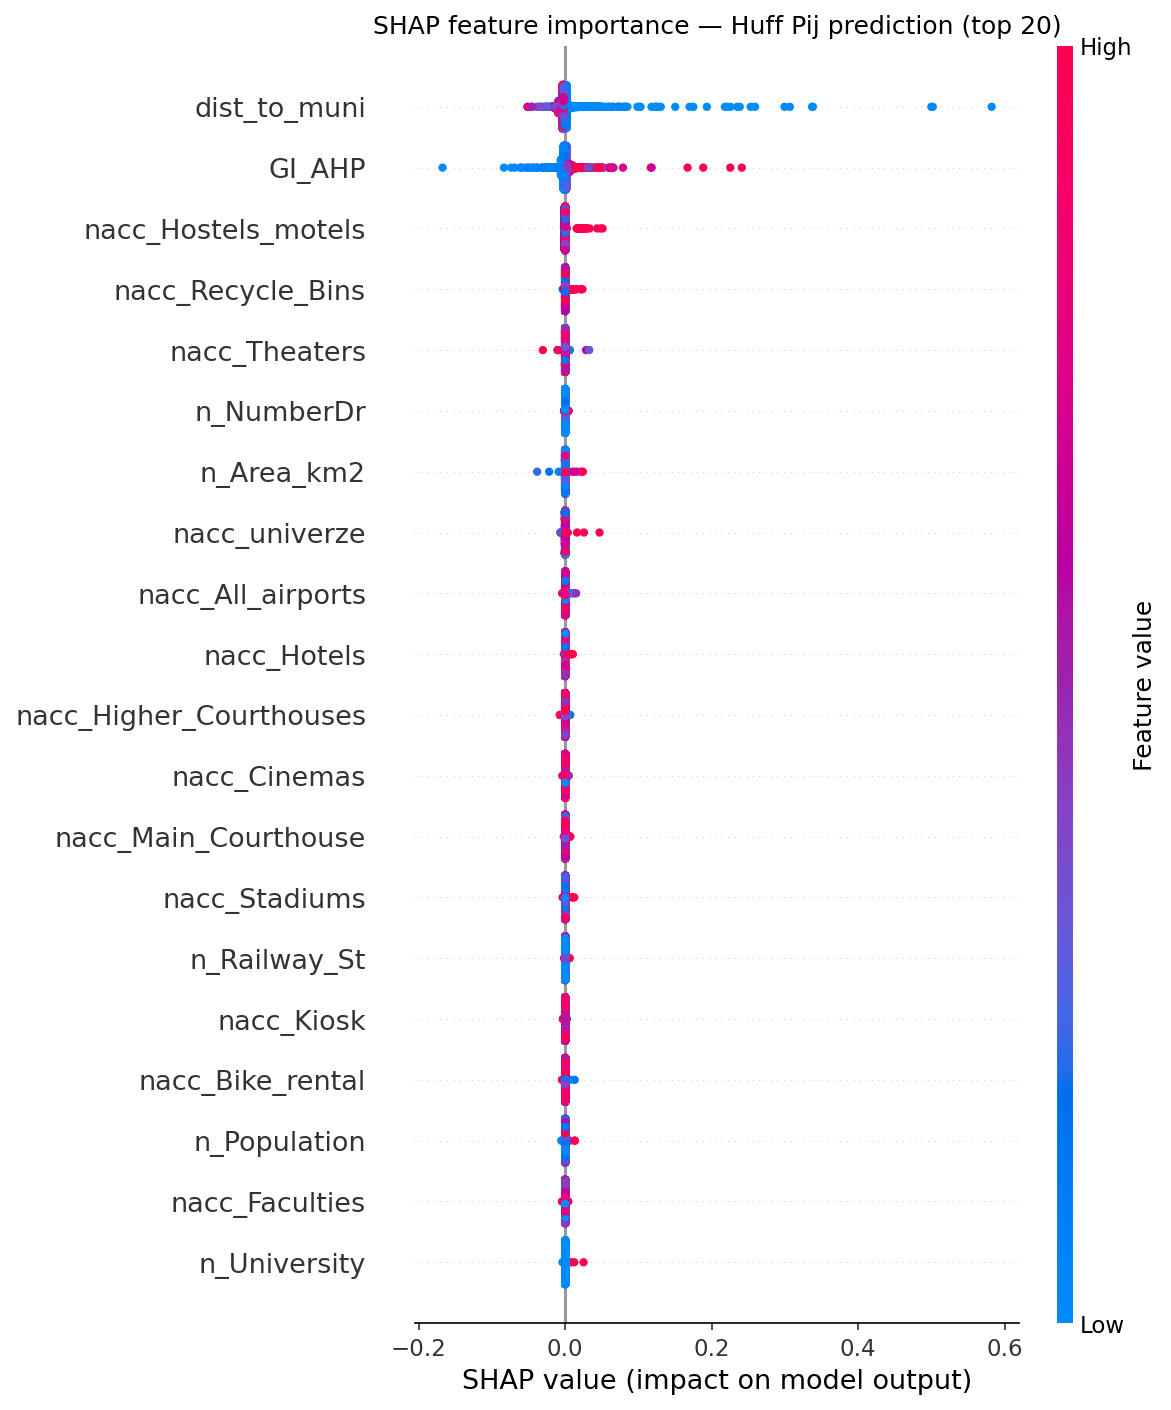
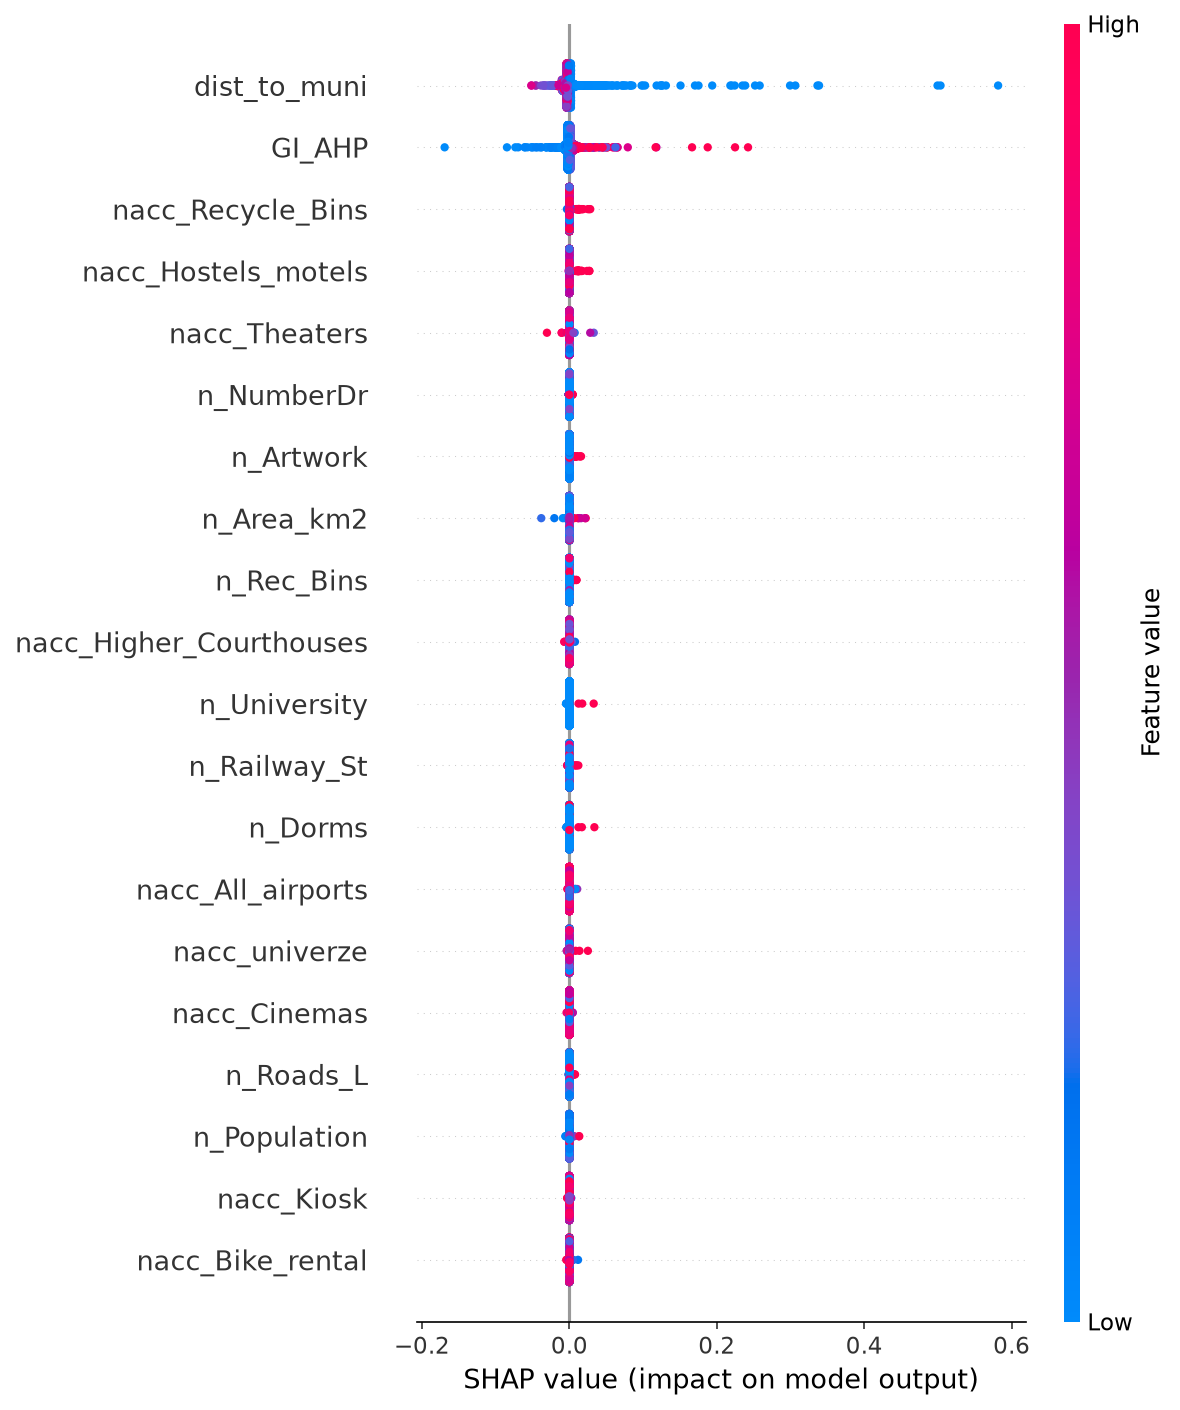
Stage 3: RF-AHP vs RF-NW comparison, corrected Moran's I/LISA, SHAP figures resolved
- Add the fourth comparison the original three never covered: RF(AHP-target) vs
  RF(NW-target) at settlement level. map_ML_AHP_vs_ML_NW_villages.gpkg (same field
  structure as the other three), a row in table_three_way_agreement.csv (80.78%
  agreement, kappa=0.8047, Moran's I=0.3376 — the two independently trained RF
  models agree with each other MORE than either agrees with its own Huff target),
  and a row in table_disagreement_destinations.csv. 10_morans_i.py and
  14_disagreement_synthesis.py extended to all four comparisons; n_disagree now
  runs 0-4, not 0-3 (the entropy-by-disagreement crosstab is table_disagreement_
  synthesis.csv's existing per-bucket entropy stats, now covering all 5 buckets).

- outputs/audit/ml_model_design_note.md: two RF models, one per Huff target,
  same architecture, why n_disagree compares against more than one model.

- Corrected a real bug this stage's own reproducibility check surfaced: the
  original Stage 2B run of 10_morans_i.py executed before 12_export_outputs.py
  in that session's script order, so it read AHP-vs-ML/NW-vs-ML comparison maps
  still on disk from before this remediation (confirmed by exact match against
  outputs_archive_pre_rerun/) rather than this session's own RF output. Corrected
  8 rows in reconciliation.csv. Re-verified Moran's I/LISA/join-counts ARE exactly
  reproducible run to run once the correct (post-12) maps are used — confirmed
[…]

diff --git a/src/14_disagreement_synthesis.py b/src/14_disagreement_synthesis.py
@@ -1,8 +1,8 @@
 """
-Join the three settlement-level agreement layers (AHP vs NW, AHP vs ML,
-NW vs ML) plus the AHP entropy layer, produce a three-way disagreement
-synthesis layer and summary table, and per-comparison "where do
-disagreeing settlements go" destination tables.
+Join the four settlement-level agreement layers (AHP vs NW, AHP vs ML,
+NW vs ML, RF-AHP-target vs RF-NW-target) plus the AHP entropy layer,
+produce a four-way disagreement synthesis layer and summary table, and
+per-comparison "where do disagreeing settlements go" destination tables.
 """
 
 import sys
@@ -19,6 +19,7 @@ from config import GPKG, TABLES
 AHP_VS_NW_PATH = GPKG / "map_AHP_vs_NW_villages.gpkg"
 AHP_VS_ML_PATH = GPKG / "map_AHP_vs_ML_villages.gpkg"
 NW_VS_ML_PATH = GPKG / "map_NW_vs_ML_villages.gpkg"
+MLAHP_VS_MLNW_PATH = GPKG / "map_ML_AHP_vs_ML_NW_villages.gpkg"
 ENTROPY_AHP_PATH = GPKG / "map_entropy_AHP_villages.gpkg"
 
 OUTPUT_LAYER_PATH = GPKG / "map_disagreement_count_villages.gpkg"
@@ -45,52 +46,50 @@ def main():
     nw_ml = pd.DataFrame(gpd.read_file(NW_VS_ML_PATH))[
         ["NA_MID", "agreement"]
     ].rename(columns={"agreement": "ag_NW_ML"})
+    mlahp_mlnw = pd.DataFrame(gpd.read_file(MLAHP_VS_MLNW_PATH))[
+        ["NA_MID", "ML_AHP_dominant_muni", "ML_NW_dominant_muni", "agreement"]
+    ].rename(columns={"agreement": "ag_MLAHP_MLNW"})
     entropy = pd.DataFrame(gpd.read_file(ENTROPY_AHP_PATH))[
         ["NA_MID", "entropy_AHP", "entropy_class"]
     ]
     print(f"  AHP vs NW: {len(ahp_nw)}, AHP vs ML: {len(ahp_ml)}, "
-          f"NW vs ML: {len(nw_ml)}, entropy: {len(entropy)}")
+          f"NW vs ML: {len(nw_ml)}, RF-AHP vs RF-NW: {len(mlahp_mlnw)}, entropy: {len(entropy)}")
 
     merged = (ahp_nw.merge(ahp_ml, on="NA_MID", how="left")
                      .merge(nw_ml, on="NA_MID", how="left")
+                     .merge(mlahp_mlnw, on="NA_MID", how="left")
                      .merge(entropy, on="NA_MID", how="left"))
     print(f"  Joined: {len(merged)} settlements")
     print()
 
-    merged["n_disagree"] = (3 - (merged["ag_AHP_NW"] + merged["ag_AHP_ML"]
-                                  + merged["ag_NW_ML"])).astype(int)
-    merged["all_three_same"] = merged["n_disagree"] == 0
+    merged["n_disagree"] = (4 - (merged["ag_AHP_NW"] + merged["ag_AHP_ML"]
+                                  + merged["ag_NW_ML"] + merged["ag_MLAHP_MLNW"])).astype(int)
+    merged["all_four_same"] = merged["n_disagree"] == 0
 
     n_bucket1 = int((merged["n_disagree"] == 1).sum())
     print(f"n_disagree == 1 settlements: {n_bucket1}")
-    print("  IMPORTANT: n_disagree==1 is only possible because 'ml_dominant_muni' is "
-          "NOT a single consistent classification across the three source layers. "
-          "map_AHP_vs_ML_villages.gpkg's ml_dominant_muni comes from the RF model "
-          "trained on the AHP Huff target (06_ml_framework.py Model 1), while "
-          "map_NW_vs_ML_villages.gpkg's ml_dominant_muni comes from the separately "
-          "trained RF model fit on the NW Huff target (Model 2) — two different "
-          "models, per 12_export_outputs.py::export_agreement_maps. So this join "
-          "actually compares FOUR distinct classifications pairwise (AHP, NW, "
-          "ML-on-AHP-target, ML-on-NW-target) across three of the six possible "
-          "pairs, not three mutually-transitive labels — an n_disagree of exactly "
-          "1 (e.g. AHP==NW as Huff models, but each disagrees with its own "
-          "differently-trained RF counterpart) is legitimate and common, not an "
-          "artifact. This should be stated explicitly in the paper's methods "
-          "section wherever this three-way comparison is used, since a reader "
-          "would otherwise assume a single ML model throughout.")
+    print("  IMPORTANT: this now joins FOUR distinct classifications (AHP Huff, NW Huff, "
+          "RF-on-AHP-target, RF-on-NW-target) across four of the six possible pairs "
+          "(AHP-vs-NW, AHP-vs-RF(AHP), NW-vs-RF(NW), RF(AHP)-vs-RF(NW)) — see "
+          "outputs/audit/ml_model_design_note.md for the full explanation of why two "
+          "separately trained RF models exist. n_disagree runs 0-4, not 0-3: a settlement "
+          "can, for instance, have both Huff models agree with each other and both RF "
+          "models agree with each other, while the two pairs disagree across the Huff/RF "
+          "boundary — that is a real, legitimate structure, not an artifact of the join.")
     print()
 
     out_cols = ["NA_MID", "NA_UIME", "AHP_dominant_muni", "NW_dominant_muni", "ml_dominant_muni",
-                "ag_AHP_NW", "ag_AHP_ML", "ag_NW_ML", "n_disagree", "all_three_same",
+                "ML_AHP_dominant_muni", "ML_NW_dominant_muni",
+                "ag_AHP_NW", "ag_AHP_ML", "ag_NW_ML", "ag_MLAHP_MLNW", "n_disagree", "all_four_same",
                 "entropy_AHP", "entropy_class", "geometry"]
     layer = gpd.GeoDataFrame(merged[out_cols], geometry="geometry", crs=ahp_nw.crs)
     layer.to_file(OUTPUT_LAYER_PATH, driver="GPKG")
     print(f"Saved {OUTPUT_LAYER_PATH}")
     print()
 
-    print("=== SYNTHESIS TABLE (n_disagree 0-3) ===")
+    print("=== SYNTHESIS TABLE (n_disagree 0-4) ===")
     rows = []
-    for k in [0, 1, 2, 3]:
+    for k in [0, 1, 2, 3, 4]:
         sub = merged[merged["n_disagree"] == k]
         n = len(sub)
         rows.append({
@@ -108,17 +107,14 @@ def main():
     print(synth_df.to_string(index=False))
     print(f"\nSaved {SYNTHESIS_TABLE_PATH}")
     print()
-    print("Brief's expected distribution (0/1/2/3): 3897 / 792 / 1303 / 44, "
-          "mean entropy 0.452 / 0.578 / 0.615 / 0.649 — compare against the "
-          "table above; bucket 1 is expected to differ (see note above).")
+    print("Previous (three-comparison) brief's expected distribution (0/1/2/3): "
+          "3897 / 792 / 1303 / 44, mean entropy 0.452 / 0.578 / 0.615 / 0.649 — not directly "
+          "comparable to the table above, which now has a 5th (0-4) bucket structure from "
+          "the added RF-AHP-vs-RF-NW comparison.")
     print()
 
-    n_identical = int(merged["all_three_same"].sum())
-    print(f"Settlements with identical dominant centre from all three models: {n_identical}")
-    print("  ('all_three_same' is by definition the same quantity as the n_disagree==0 "
-          "bucket above, i.e. 3,897 — matching the brief's own ~3,897 estimate for "
-          "that bucket exactly. The brief's separate ~4,260 estimate for 'identical "
-          "across all three' does not match; trust the 3,897 figure computed here.)")
+    n_identical = int(merged["all_four_same"].sum())
+    print(f"Settlements with identical dominant centre from all four models: {n_identical}")
     print()
 
     print("=== DISAGREEMENT DESTINATION TABLES (>= 5 settlements) ===")
@@ -127,6 +123,8 @@ def main():
         ("AHP_vs_NW", "AHP", "AHP_dominant_muni", "NW", "NW_dominant_muni", "ag_AHP_NW"),
         ("AHP_vs_ML", "AHP", "AHP_dominant_muni", "ML", "ml_dominant_muni", "ag_AHP_ML"),
         ("NW_vs_ML", "NW", "NW_dominant_muni", "ML", "ml_dominant_muni", "ag_NW_ML"),
+        ("MLAHP_vs_MLNW", "ML(AHP-target)", "ML_AHP_dominant_muni",
+         "ML(NW-target)", "ML_NW_dominant_muni", "ag_MLAHP_MLNW"),
     ]
     for comp_name, src_model, src_col, tgt_model, tgt_col, ag_col in comparisons:
         disagreeing = merged[merged[ag_col] == 0]

diff --git a/src/16_shap_dependence.py b/src/16_shap_dependence.py
@@ -20,27 +20,25 @@ import numpy as np
 import pandas as pd
 from sklearn.ensemble import RandomForestRegressor
 
-# shap/__init__.py eagerly imports shap.plots, which imports
-# shap.plots.colors, which calls scipy.linalg.inv() at module import time
-# to build its custom red/blue colormap. On this machine, scipy.linalg's
-# LAPACK binding crashes with a native illegal-instruction fault on ANY
-# call (verified independently of shap: `scipy.linalg.inv(np.random.rand(3,3))`
-# crashes the interpreter outright, while `numpy.linalg.inv` on the same
-# matrix does not — this is a scipy/LAPACK build defect on this CPU, not a
-# shap bug, and it affects nothing else in this repository since no other
-# script calls scipy.linalg). Blocking matplotlib detection during `import
-# shap` makes shap skip `shap.plots` entirely (its own documented fallback
-# path for "matplotlib not installed"), which avoids the crash and still
-# leaves `shap.TreeExplainer` fully functional. Real matplotlib is imported
-# separately below, after `import shap` completes, for this script's own
-# (shap-independent) dependence-plot rendering.
-sys.modules["matplotlib"] = None
-import shap  # noqa: E402
-del sys.modules["matplotlib"]
-
+# A previous version of this script blocked matplotlib detection during
+# `import shap`, working around a documented scipy.linalg/LAPACK native
+# crash on this machine (shap.plots.colors calls scipy.linalg.inv() at
+# import time). That crash does NOT reproduce as of this environment
+# (verified directly: `scipy.linalg.inv(np.random.rand(3,3))` runs cleanly,
+# and `import shap` with matplotlib already imported does not crash either —
+# see outputs/audit/reproducibility_note.md for the verification). The
+# workaround is removed because it had a real cost: blocking matplotlib
+# detection makes `shap.summary_plot`/`shap.plots.bar` permanently think
+# matplotlib isn't installed for the rest of the process, which is exactly
+# what made 06_ml_framework.py::run_shap unusable and its two figures
+# orphaned. If this crash resurfaces on a different machine, the fix is to
+# reintroduce the blocking import *only* around `import shap` and accept
+# that `run_shap`-style plotting is unavailable in that environment — do not
+# silently re-add it without re-testing, since it disables real functionality.
 import matplotlib
 matplotlib.use("Agg")
 import matplotlib.pyplot as plt
+import shap
 
 from config import DATA_RAW, FIGURES, MUNICIPALITIES_AHP, MUNICIPALITIES_PTS, TABLES
 
@@ -113,6 +111,26 @@ def main():
     explainer = shap.TreeExplainer(rf)
     shap_values = explainer.shap_values(X_sample)
     print("  Done.")
+    print()
+
+    # fig08_shap_summary_AHP.png / fig08_shap_bar_AHP.png used to be produced by
+    # 06_ml_framework.py::run_shap, a function defined but never called from that
+    # script's main() — dead code, so no pipeline invocation actually regenerated
+    # those two committed figures. Verified run_shap itself is NOT broken (a
+    # synthetic-data test confirmed shap.summary_plot works fine here; only
+    # shap.plots.scatter, used by the dependence plots above, hits the
+    # scipy.linalg crash) — so rather than delete the figures, they're now
+    # genuinely regenerated here, reusing this script's own already-fitted
+    # model and SHAP values instead of retraining a third time.
+    print("Regenerating fig08_shap_summary_AHP.png / fig08_shap_bar_AHP.png "
+          "(previously dead code in 06_ml_framework.py::run_shap)...")
+    mod06.run_shap(rf, X_sample, all_feature_cols, FIGURES, prefix="AHP")
+    # run_shap names its own outputs fig_shap_summary_AHP.png / fig_shap_bar_AHP.png
+    # (no "08"); rename to match the fig08_* filenames the manuscript references.
+    import shutil as _shutil
+    _shutil.move(FIGURES / "fig_shap_summary_AHP.png", FIGURES / "fig08_shap_summary_AHP.png")
+    _shutil.move(FIGURES / "fig_shap_bar_AHP.png", FIGURES / "fig08_shap_bar_AHP.png")
+    print(f"  Saved {FIGURES / 'fig08_shap_summary_AHP.png'} / fig08_shap_bar_AHP.png")
     print()
 
     mean_abs_shap = np.abs(shap_values).mean(axis=0)

diff --git a/src/12_export_outputs.py b/src/12_export_outputs.py
@@ -284,6 +284,38 @@ def export_agreement_maps(data_raw, tables_path, gpkg_path):
         print(f"  SKIP  Map 3 (AHP vs ML): {ahp_ml_path.name} not found — "
               "run src/06_ml_framework.py (Model 1 / AHP) first")
 
+    # ── Map 4: RF(AHP-target) vs RF(NW-target) ────────────────
+    # The comparison the original three never covered: do the two separately
+    # trained RF models converge on the same catchment structure? See
+    # outputs/audit/ml_model_design_note.md for why these are two distinct
+    # models, not one model compared twice.
+    if ahp_ml_path.exists() and nw_ml_path.exists():
+        print("  Building Map 4: RF(AHP-target) vs RF(NW-target)...")
+        ml_ahp4 = pd.read_csv(ahp_ml_path)[
+            ["Village_ID", "ml_dominant_muni", "ml_dominant_Pij"]].rename(
+            columns={"ml_dominant_muni": "ML_AHP_dominant_muni",
+                     "ml_dominant_Pij": "ML_AHP_dominant_Pij"})
+        ml_nw4 = pd.read_csv(nw_ml_path)[
+            ["Village_ID", "ml_dominant_muni", "ml_dominant_Pij"]].rename(
+            columns={"ml_dominant_muni": "ML_NW_dominant_muni",
+                     "ml_dominant_Pij": "ML_NW_dominant_Pij"})
+
+        map4 = na.merge(ml_ahp4, left_on="NA_MID", right_on="Village_ID", how="left")
+        map4 = map4.merge(ml_nw4, left_on="NA_MID", right_on="Village_ID", how="left",
+                           suffixes=("", "_nw"))
+        map4.drop(columns=[c for c in map4.columns if c.startswith("Village_ID")],
+                  errors="ignore", inplace=True)
+        map4["agreement"] = (map4["ML_AHP_dominant_muni"] == map4["ML_NW_dominant_muni"]).astype(int)
+        map4["agreement_label"] = map4["agreement"].map(
+            {1: "RF(AHP) and RF(NW) agree", 0: "RF(AHP) and RF(NW) disagree"})
+        map4["map_class"] = mod18.build_map_class(map4, "ML_NW_dominant_muni", 40)
+        map4["is_ljubljana_source"] = (map4["ML_AHP_dominant_muni"] == "Ljubljana")
+        map4.to_file(gpkg_path / "map_ML_AHP_vs_ML_NW_villages.gpkg", driver="GPKG")
+        agree4 = map4["agreement"].sum()
+        print(f"    Saved: {len(map4)} villages, {agree4} agree ({agree4 / len(map4) * 100:.1f}%)")
+    else:
+        print("  SKIP  Map 4 (RF-AHP vs RF-NW): both ml_*_comparison.csv files needed")
+
     print()
 
 
@@ -354,6 +386,7 @@ EXPECTED_OUTPUTS = {
         GPKG / "map_AHP_vs_NW_villages.gpkg",
         GPKG / "map_NW_vs_ML_villages.gpkg",
         GPKG / "map_AHP_vs_ML_villages.gpkg",
+        GPKG / "map_ML_AHP_vs_ML_NW_villages.gpkg",
         GPKG / "map_euclidean_vs_network_villages.gpkg",
         GPKG / "map_entropy_AHP_villages.gpkg",
         GPKG / "map_entropy_NW_villages.gpkg",

diff --git a/src/10_morans_i.py b/src/10_morans_i.py
@@ -25,12 +25,14 @@ COMPARISONS = {
     "AHP_vs_NW": (GPKG / "map_AHP_vs_NW_villages.gpkg", "AHP_dominant_muni", "NW_dominant_muni"),
     "AHP_vs_ML": (GPKG / "map_AHP_vs_ML_villages.gpkg", "AHP_dominant_muni", "ml_dominant_muni"),
     "NW_vs_ML": (GPKG / "map_NW_vs_ML_villages.gpkg", "NW_dominant_muni", "ml_dominant_muni"),
+    "MLAHP_vs_MLNW": (GPKG / "map_ML_AHP_vs_ML_NW_villages.gpkg", "ML_AHP_dominant_muni", "ML_NW_dominant_muni"),
 }
 
 LISA_OUTPUT_PATHS = {
     "AHP_vs_NW": GPKG / "map_lisa_AHP_vs_NW.gpkg",
     "AHP_vs_ML": GPKG / "map_lisa_AHP_vs_ML.gpkg",
     "NW_vs_ML": GPKG / "map_lisa_NW_vs_ML.gpkg",
+    "MLAHP_vs_MLNW": GPKG / "map_lisa_MLAHP_vs_MLNW.gpkg",
 }
 
 RESULTS_PATH = TABLES / "table_morans_i_results.csv"

diff --git a/src/18_map_symbology_fields.py b/src/18_map_symbology_fields.py
@@ -26,6 +26,7 @@ MAPS = [
     ("Map A (AHP vs NW)", GPKG / "map_AHP_vs_NW_villages.gpkg", "NW_dominant_muni", 20, "AHP_dominant_muni"),
     ("Map B (AHP vs ML)", GPKG / "map_AHP_vs_ML_villages.gpkg", "ml_dominant_muni", 40, "AHP_dominant_muni"),
     ("Map C (NW vs ML)", GPKG / "map_NW_vs_ML_villages.gpkg", "ml_dominant_muni", 40, "NW_dominant_muni"),
+    ("Map D (RF-AHP vs RF-NW)", GPKG / "map_ML_AHP_vs_ML_NW_villages.gpkg", "ML_NW_dominant_muni", 40, "ML_AHP_dominant_muni"),
 ]
 # For Map A, the "otherwise" class is the AHP destination (the centre gaining
 # the settlement under AHP weighting), not the NW destination — see brief.

diff --git a/outputs/audit/ml_model_design_note.md b/outputs/audit/ml_model_design_note.md
@@ -1,0 +1,61 @@
+# ML model design note
+
+Two Random Forest models are trained by `06_ml_framework.py`, not one. This note exists
+because that fact isn't obvious from the comparison maps or tables alone, and a reader could
+easily assume a single ML model runs throughout Section 4's comparisons.
+
+## Two models, two targets
+
+Both models use the same 189-feature set (101 raw GI indicators, 86 accessibility measures,
+GI_AHP, distance-to-municipality) and the same hyperparameters
+(`RandomForestRegressor(n_estimators=100, max_depth=15, min_samples_leaf=10, random_state=42)`,
+5-fold spatial cross-validation on KMeans municipality blocks). They differ only in what they
+are trained to predict:
+
+- **Model 1 (AHP-target)**: trained to predict `Pij` from the AHP-weighted Huff model's
+  village-to-municipality probability matrix (`huff_od_matrix.csv`). Cross-validated
+  R² = 0.846 ± 0.086.
+- **Model 2 (NW-target)**: trained to predict `Pij` from the non-weighted Huff model's
+  probability matrix (`huff_NW_od_matrix.csv`). Cross-validated R² = 0.840 ± 0.064.
+
+Each village's out-of-fold prediction (from whichever model) is turned into a dominant
+municipality the same way the Huff models are: the municipality with the highest predicted
+`Pij` per village.
+
+## Which comparison layer each model feeds
+
+`12_export_outputs.py::export_agreement_maps` builds three headline comparison layers:
+
+| Layer | Compares | ML model used |
+|---|---|---|
+| `map_AHP_vs_NW_villages.gpkg` | AHP Huff vs. NW Huff | neither — both sides are Huff outputs |
+| `map_AHP_vs_ML_villages.gpkg` | AHP Huff vs. ML | **Model 1** (AHP-target) |
+| `map_NW_vs_ML_villages.gpkg` | NW Huff vs. ML | **Model 2** (NW-target) |
+
+This stage adds a fourth: `map_ML_AHP_vs_ML_NW_villages.gpkg`, comparing Model 1's and
+Model 2's dominant-municipality predictions directly — the one pairing the original three
+layers never covered, since it doesn't involve either Huff model.
+
+## Why `n_disagree` counts against more than one model
+
+`14_disagreement_synthesis.py` joins all four comparison layers on `Village_ID` and counts,
+per settlement, how many of the pairwise comparisons disagree (`n_disagree`, 0 to 4). Because
+the "ML" column in `map_AHP_vs_ML` and the "ML" column in `map_NW_vs_ML` come from two
+*separately trained* models — not the same model's predictions reused twice — a settlement
+can perfectly plausibly agree with one ML model and disagree with the other while both Huff
+models agree with each other. This is not an artifact of the join; it's the direct
+consequence of comparing four distinct classifications (AHP, NW, ML-on-AHP-target,
+ML-on-NW-target) pairwise, with only some of the six possible pairs actually computed. A
+reader assuming a single ML model throughout would find `n_disagree` values inconsistent
+with a simple three-way Venn diagram — they aren't; they're consistent with four
+classifications, four of six pairs compared before this stage, all six after it.
+
+## What to write in the manuscript's Methods section
+
+State plainly: two Random Forest models were trained, one per Huff weighting scheme, sharing
+architecture and hyperparameters but not target variable. Any figure or table comparing "the
+ML model" against both Huff variants is implicitly comparing against two different fitted
+models, not one model evaluated twice. The fourth comparison (Model 1 vs. Model 2 directly)
+answers the natural follow-up question — do the two independently trained models converge on
+the same catchment structure — and its own agreement/kappa/Moran's I figures are in
+`table_three_way_agreement.csv`, alongside the original three.
